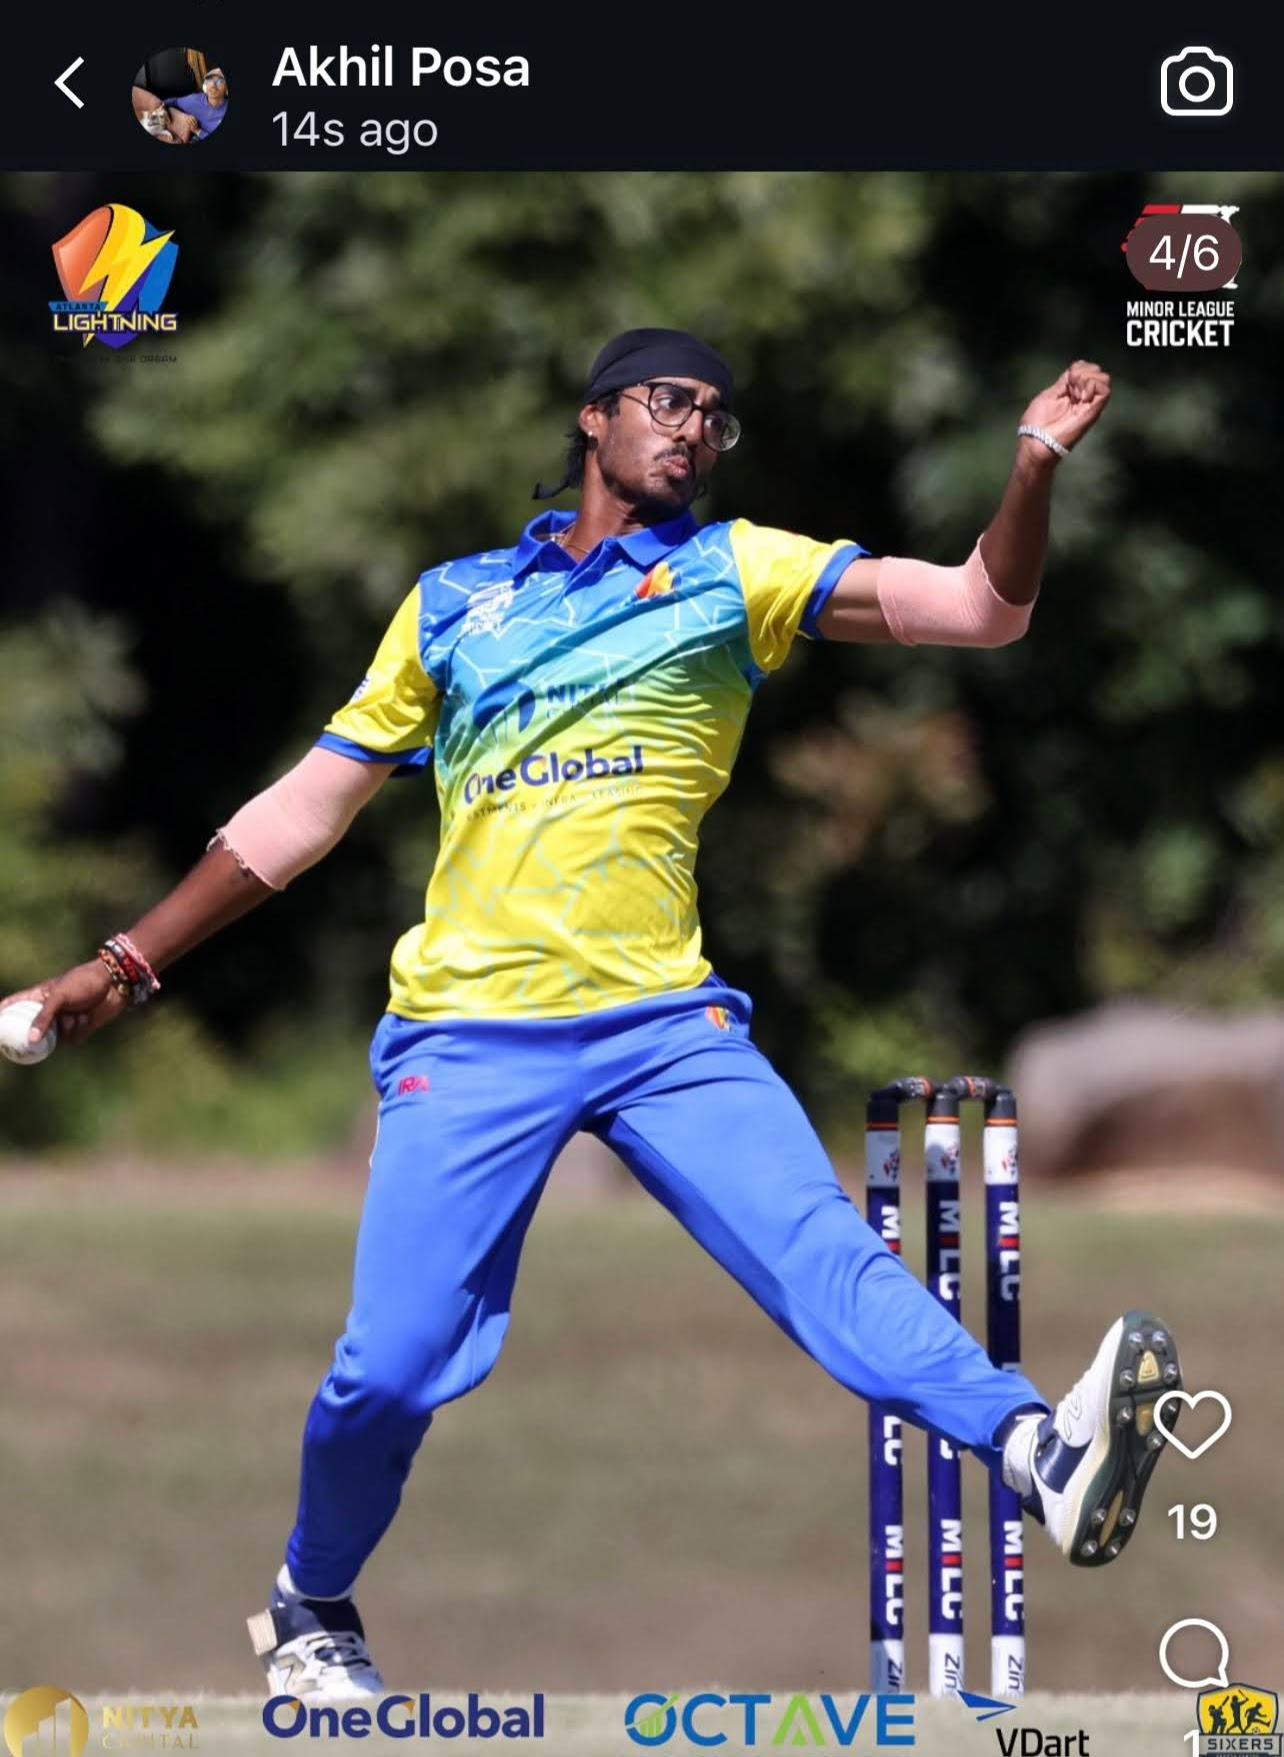
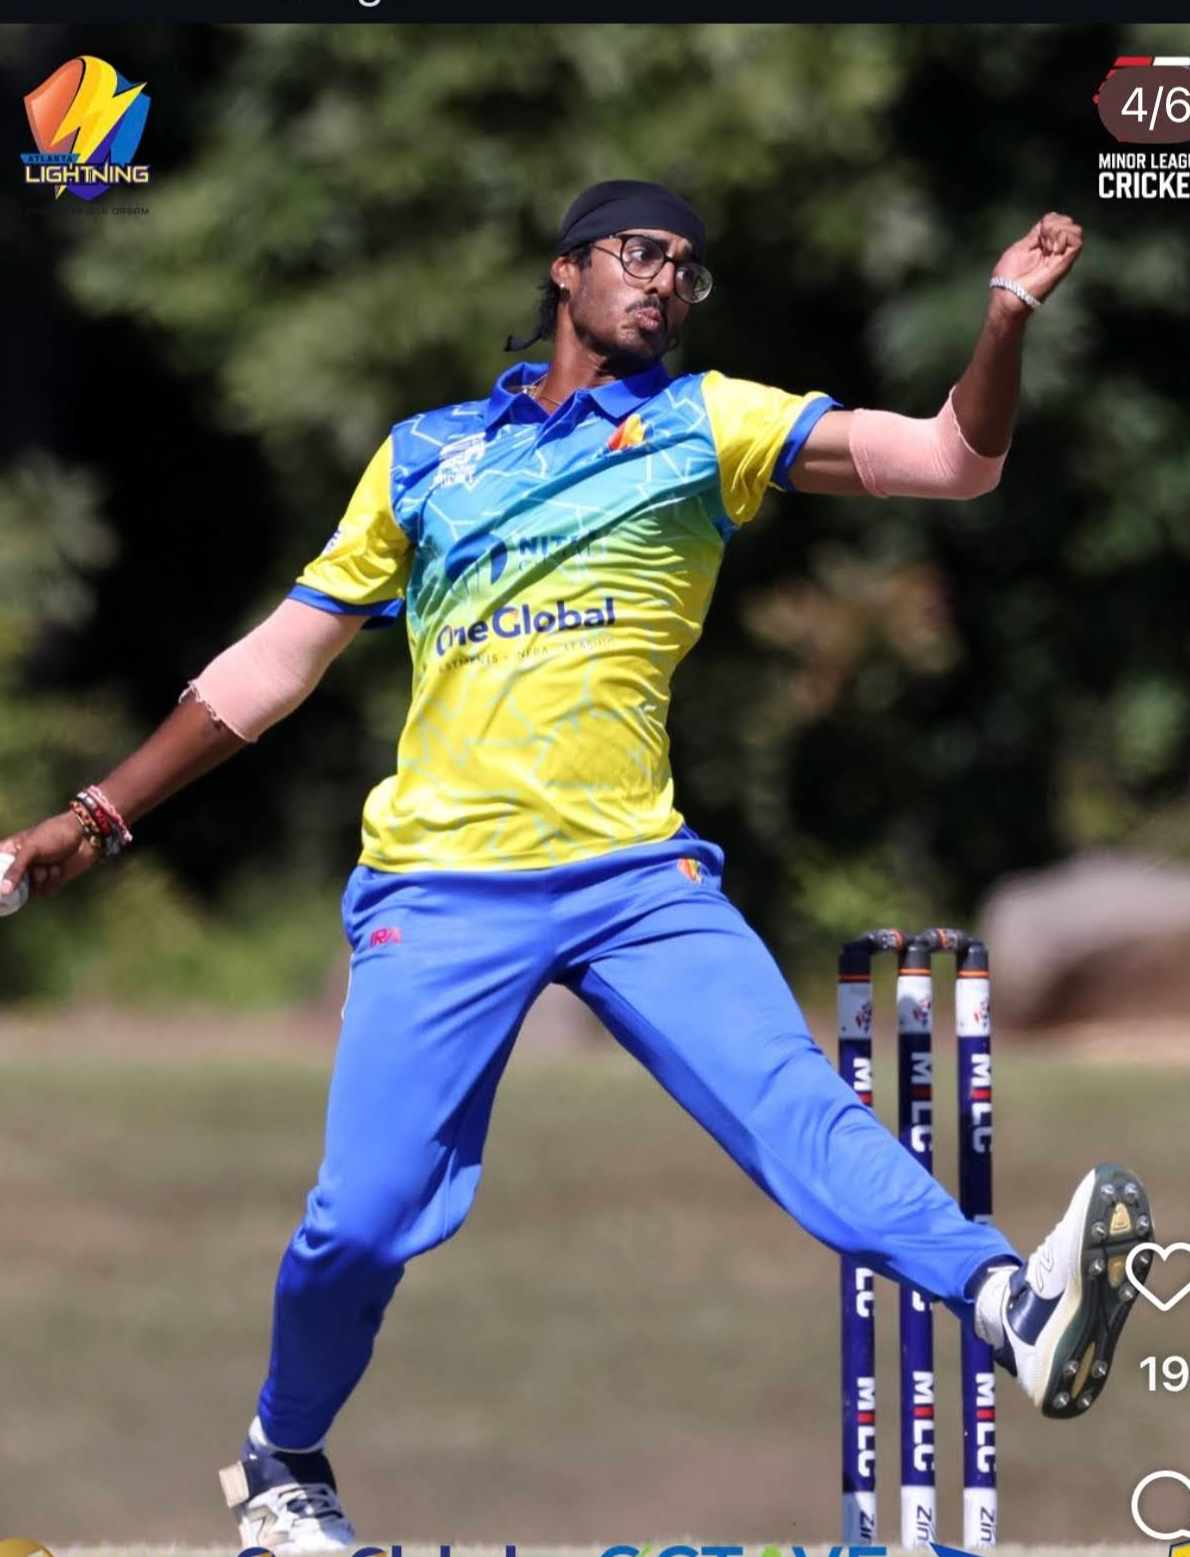
adjusted zoom

diff --git a/src/content.js b/src/content.js
@@ -97,16 +97,16 @@ export const gallery = [
     alt: 'Starlings — team photo',
     groupFocus: true,
     focusX: '58%',
-    focusY: '28%',
-    zoom: 1.4,
+    focusY: '10%',
+    zoom: 2.5,
   },
   {
     src: publicUrl('gallery/akhil-3.jpg'),
     alt: 'Atlanta Cricket Academy Avatars — team photo',
     groupFocus: true,
-    focusX: '51%',
-    focusY: '93%',
-    zoom: 1.42,
+    focusX: '100%',
+    focusY: '60%',
+    zoom: 2.0,
   },
   {
     src: publicUrl('gallery/akhil-8.jpg'),
@@ -120,17 +120,17 @@ export const gallery = [
     src: publicUrl('gallery/akhil-7.JPG'),
     alt: 'Atlanta Avatars — team and coaches',
     groupFocus: true,
-    focusX: '30%',
-    focusY: '82%',
-    zoom: 1.38,
+    focusX: '10%',
+    focusY: '30%',
+    zoom: 2.5,
   },
   {
     src: publicUrl('gallery/akhil-10.JPG'),
     alt: 'Team photo — match day',
     groupFocus: true,
-    focusX: '16%',
-    focusY: '78%',
-    zoom: 1.45,
+    focusX: '95%',
+    focusY: '60%',
+    zoom: 2.5,
   },
   {
     src: publicUrl('gallery/akhil-11.JPG'),
@@ -145,8 +145,8 @@ export const gallery = [
     alt: 'Trophy celebration — team photo, Minor League Cricket',
     groupFocus: true,
     focusX: '45%',
-    focusY: '69%',
-    zoom: 1.36,
+    focusY: '55%',
+    zoom: 2.5,
     wide: true,
   },
 ]

diff --git a/src/App.jsx b/src/App.jsx
@@ -117,13 +117,6 @@ export default function App() {
 
       <main id="top">
         <section className="hero">
-          <div className="hero-inner">
-            <p className="eyebrow">{site.team} · {site.role}</p>
-            <h1 className="sr-only">{site.name}</h1>
-            {site.tagline ? <p className="hero-tagline">{site.tagline}</p> : null}
-            {site.ageNote ? <p className="hero-meta">{site.ageNote}</p> : null}
-            {site.heroSubtext ? <p className="hero-sub">{site.heroSubtext}</p> : null}
-          </div>
           <div
             className={
               site.heroImages?.length
